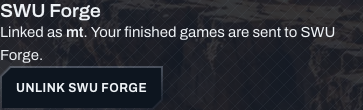
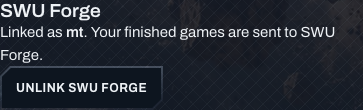
chore(SWUSim): re-order profile links

diff --git a/DevTools/tdd-regression/test_swuforge_oauth_flow.php b/DevTools/tdd-regression/test_swuforge_oauth_flow.php
@@ -124,6 +124,9 @@ try {
     unset($_GET['swuforge_error']);
     check('the Welcome panel includes the SWU Forge section when the site opts in', strpos(_ProfileWelcome($def, ['username' => 'x']), 'swuforge-link') !== false);
     check('…and not when it does not', strpos(_ProfileWelcome(['identity' => ['rootName' => 'SWUSim'], 'profile' => []], ['username' => 'x']), 'swuforge-link') === false);
+    $both = _ProfileWelcome(['identity' => ['rootName' => 'SWUSim'], 'profile' => ['swuforgeLink' => true, 'swustatsLink' => true]], ['username' => 'x']);
+    check('SWU Forge comes above SWUStats in the Welcome panel', strpos($both, 'swuforge-link') !== false && strpos($both, 'swustats-link') !== false
+        && strpos($both, 'swuforge-link') < strpos($both, 'swustats-link'));
 } finally {
     $cleanup();
     $conn->close();

diff --git a/SharedUI/Render/Profile.php b/SharedUI/Render/Profile.php
@@ -318,8 +318,8 @@ function _ProfileWelcome(array $def, array $ctx): string {
     $parts = [];
     if (!empty($def['profile']['patreonFinalPage'])) $parts[] = _DisplayPatreon($def);
     if (!empty($def['profile']['discordOAuth']))      $parts[] = _DisplayDiscordOAuth($def);
-    if (!empty($def['profile']['swustatsLink']))      $parts[] = _DisplaySWUStatsLink($def);
     if (!empty($def['profile']['swuforgeLink']))      $parts[] = _DisplaySWUForgeLink($def);
+    if (!empty($def['profile']['swustatsLink']))      $parts[] = _DisplaySWUStatsLink($def);
     $out .= implode("<hr style='border:0;border-top:1px solid rgba(255,255,255,0.14);margin:18px 0;'>", $parts);
     $out .= "\n\n</div>\n";
     return $out;
